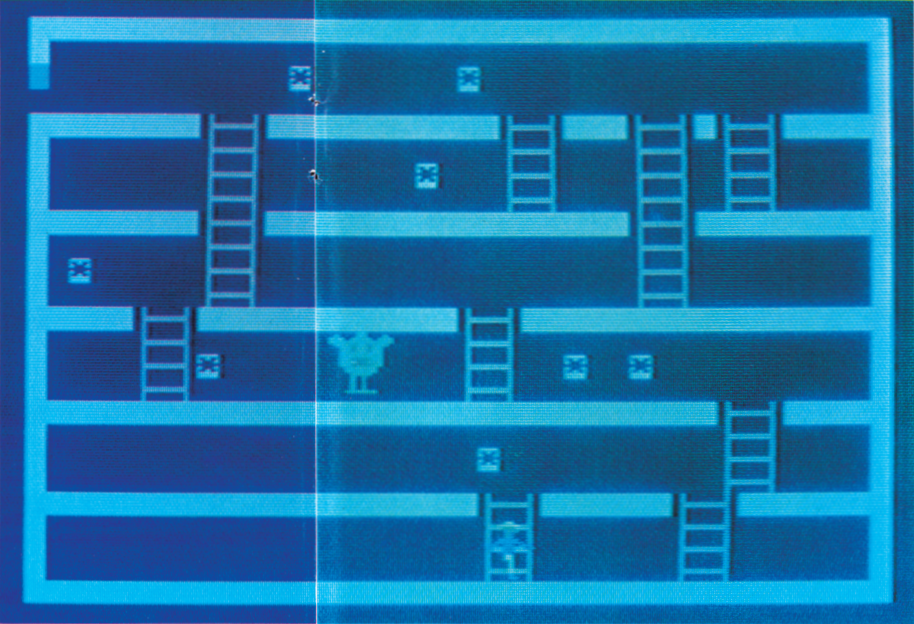
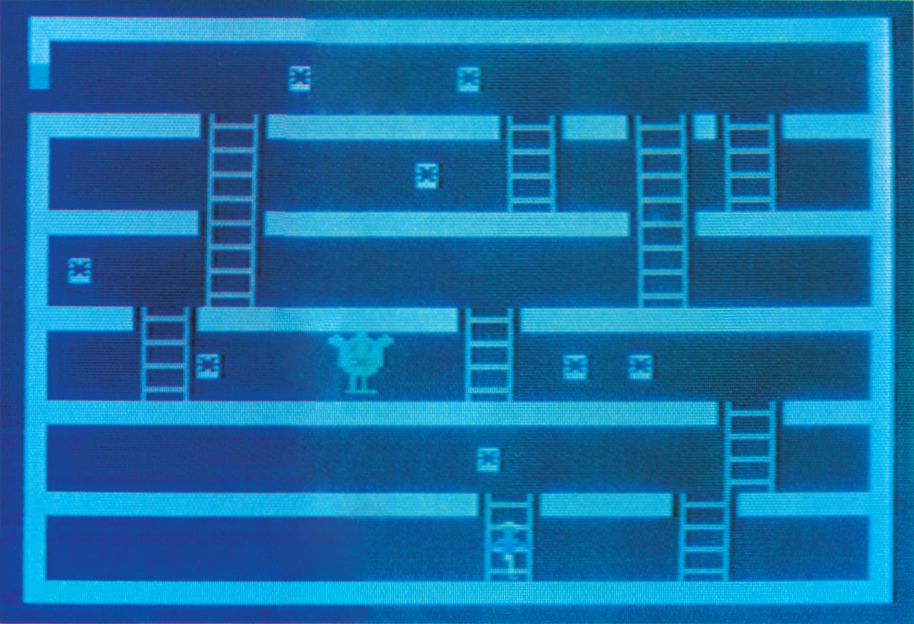
retouched images

Changed region(s): [[0.2757, 0.0, 0.4289, 1.0]]

diff --git a/issues/8405/78 3D-Joystick-Grafik.html b/issues/8405/78 3D-Joystick-Grafik.html
@@ -23,7 +23,7 @@
 
 		<figure>
             <img src="78-1.png" alt="">
-            <img src="78-2.png" alt="">
+            <img src="78-2x.png" alt="">
 			<figcaption>Solche Bilder lassen sich mittels Joystick-Grafik auf komfortable Art und Weise erzeugen</figcaption>
 		</figure>
 
